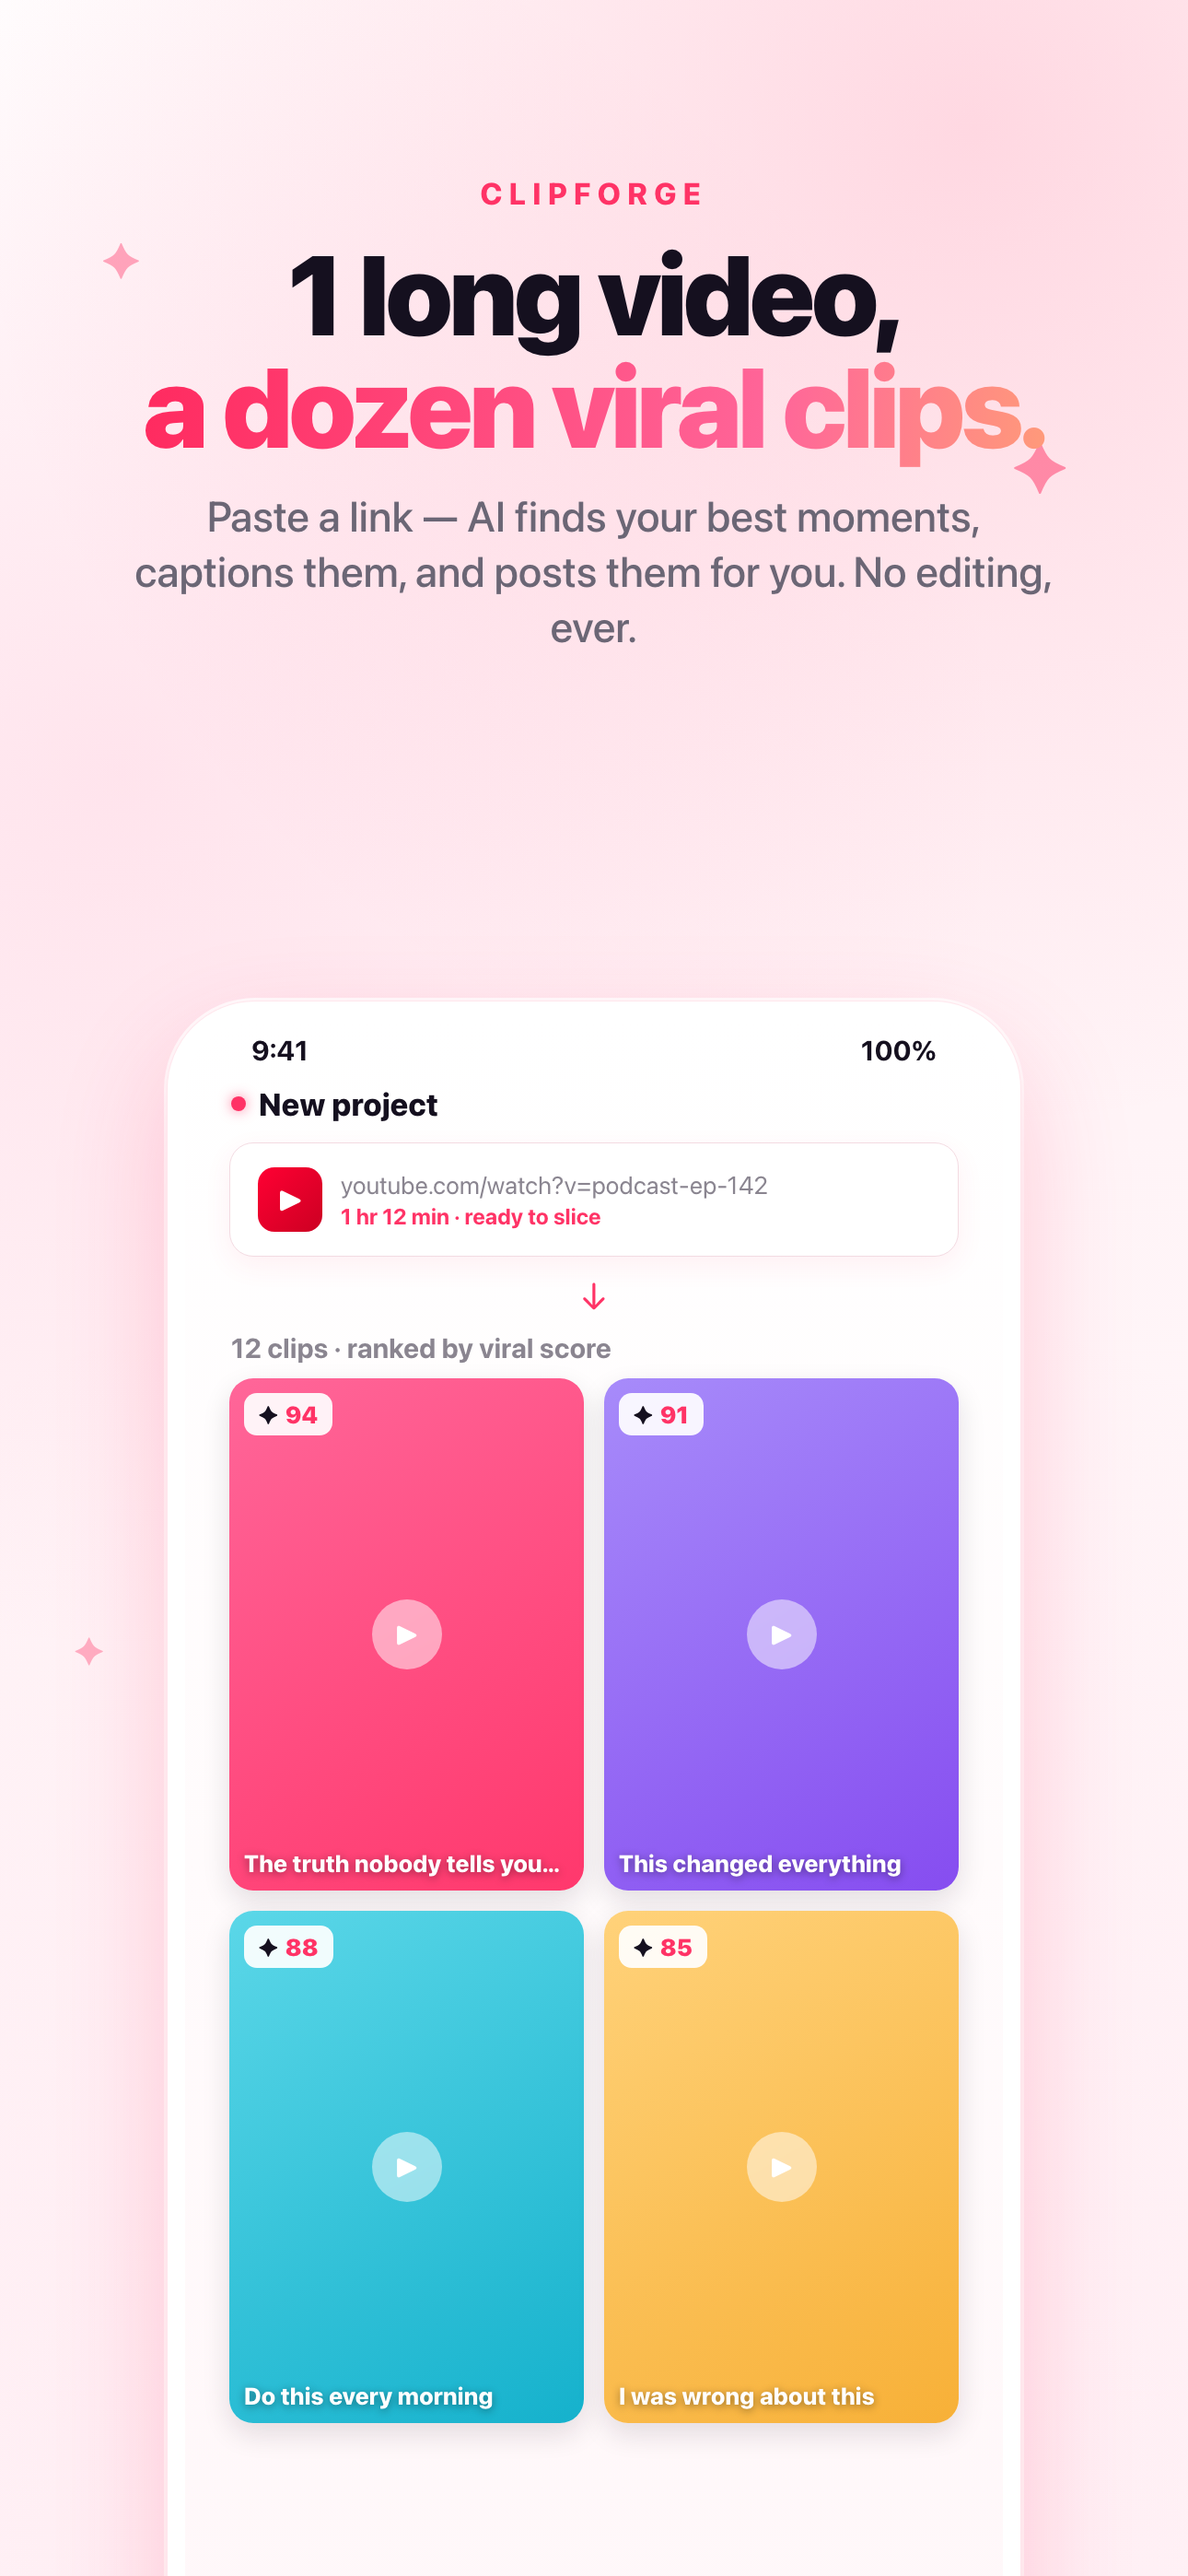
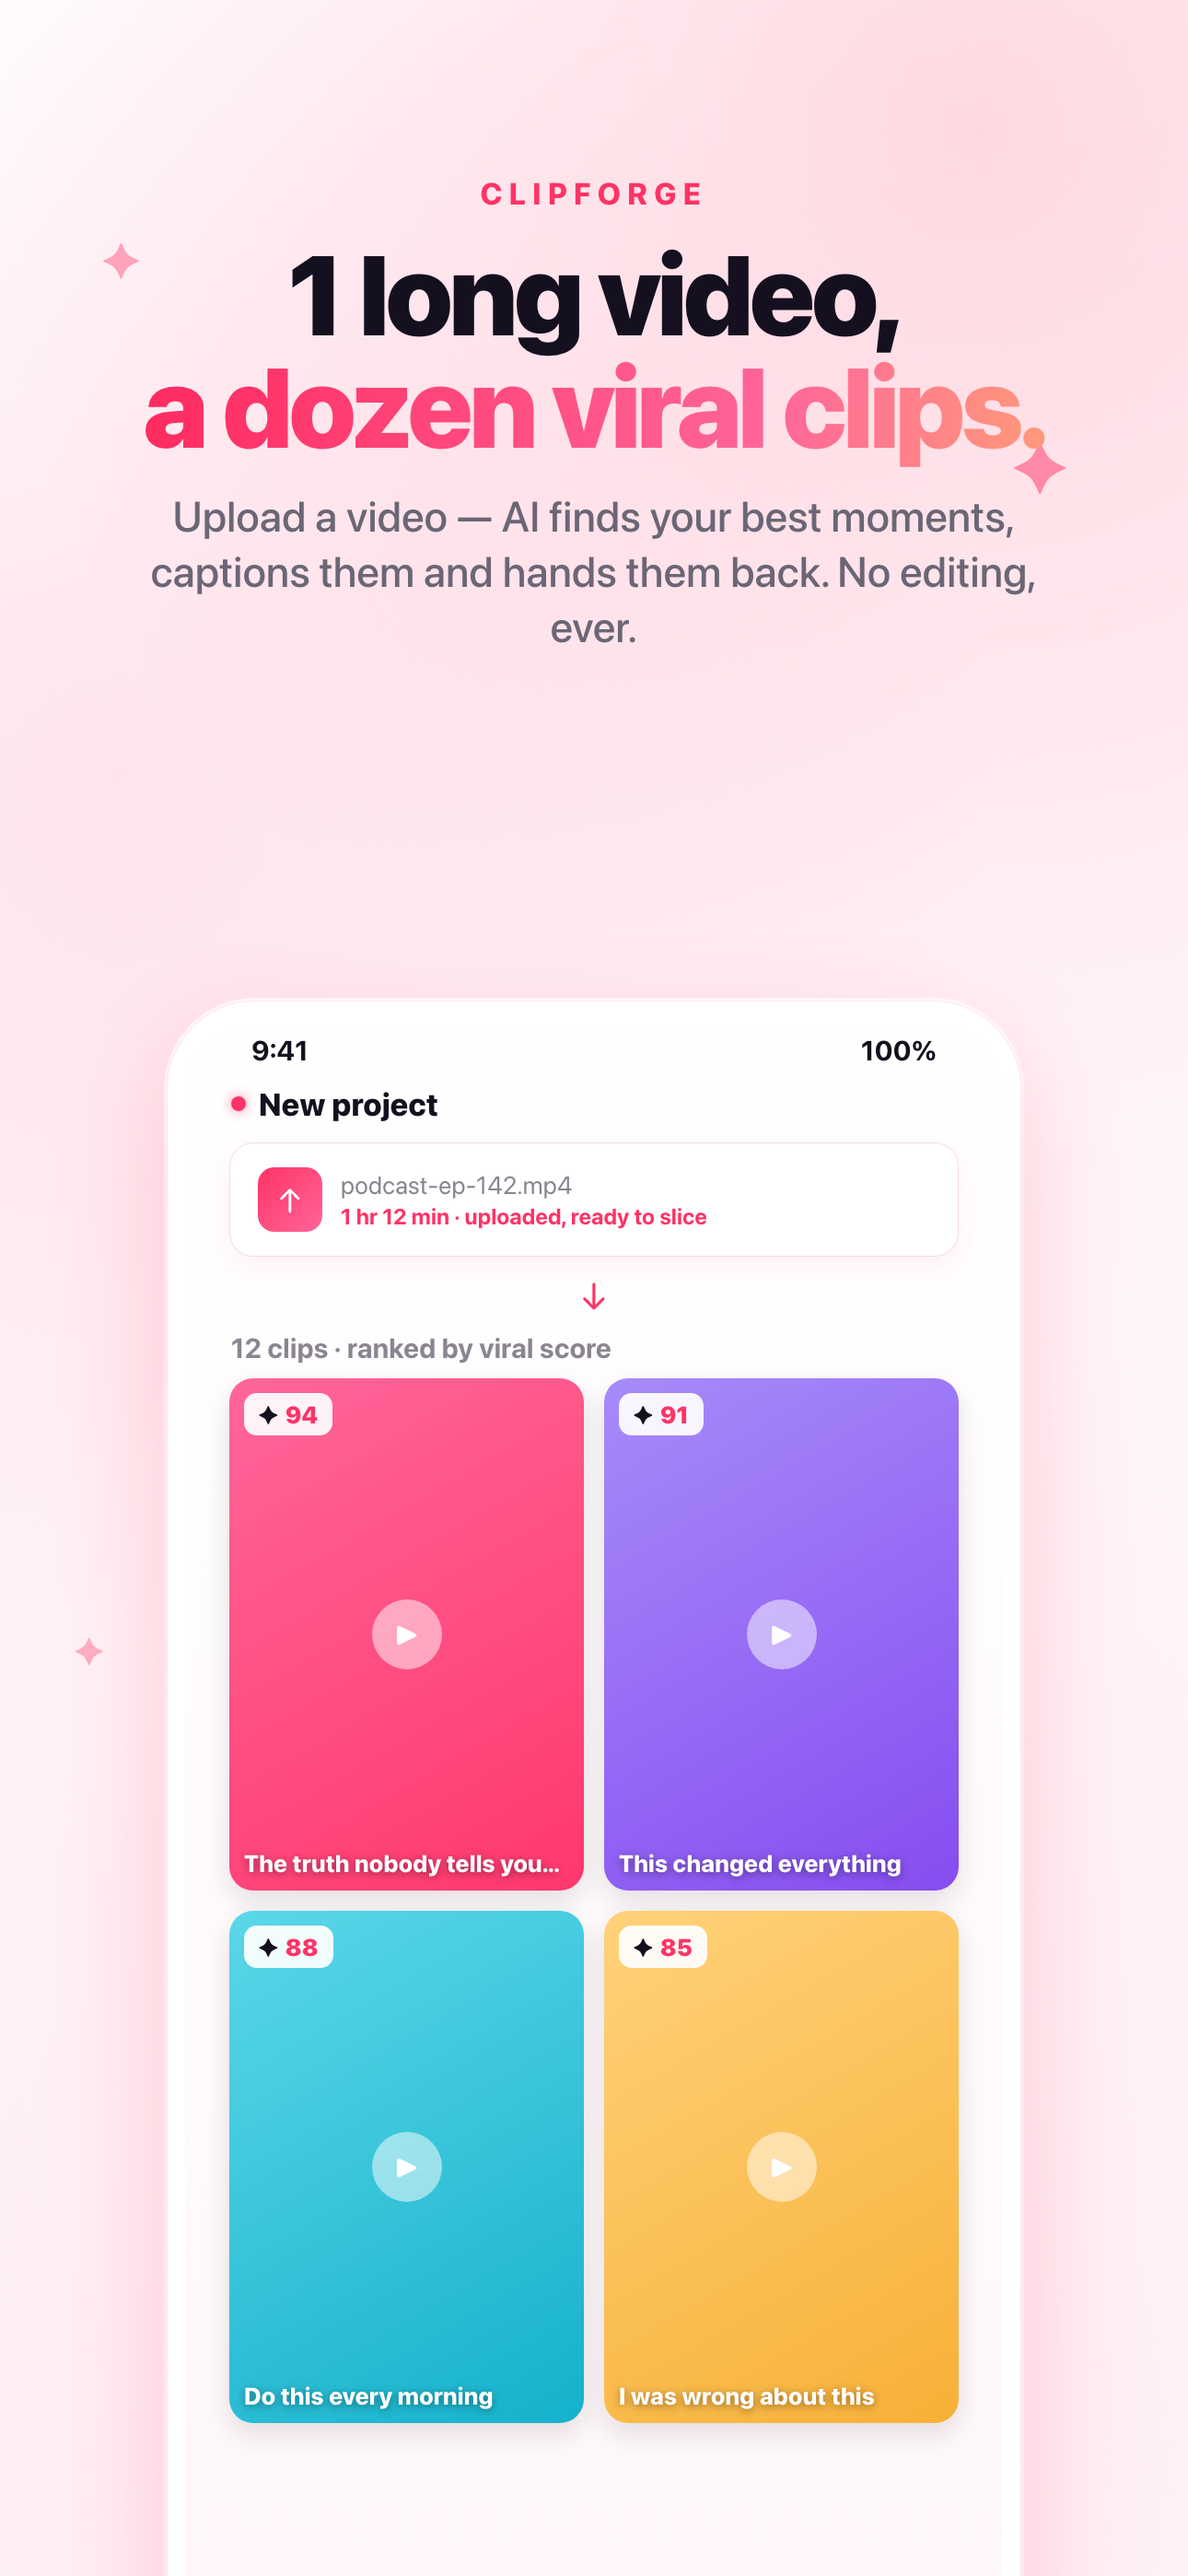
screenshots: two of the five sold things the app cannot do
Screenshot 4 was an entire panel devoted to auto-posting — "ClipForge posts
every clip to TikTok, Reels and Shorts. Hands-off." — with all three networks
ticked and a "Post to all 3" button. Publishing is gated on platform approvals
that have not landed and on OAuth credentials that are not in production. That
claim was stripped from the landing page and the paywall in an earlier pass;
the App Store screenshots, which are the most visible place it lived, were
missed. It now shows what actually happens when a render finishes: save,
share, caption copied.

Screenshot 1 led with a YouTube URL in the input and promised the app "posts
them for you". YouTube refuses downloads from data-centre IPs, so that path
does not work in production — the review notes already steer reviewers to
upload instead. The hero now shows the upload that works, and the posting
claim is gone.

diff --git a/marketing-assets/fable/src/01-extract.html b/marketing-assets/fable/src/01-extract.html
@@ -37,7 +37,7 @@
   .nav .dot { width: 16px; height: 16px; border-radius: 50%; background: #FF3366; box-shadow: 0 0 14px rgba(255,51,102,0.6); }
 
   .source { margin: 0 48px 18px; padding: 26px 30px; border-radius: 26px; background: #FFFFFF; border: 1px solid #F3DBE2; box-shadow: 0 10px 30px rgba(255,51,102,0.07); display: flex; align-items: center; gap: 20px; }
-  .source .yt { width: 70px; height: 70px; border-radius: 18px; background: linear-gradient(135deg,#FF0033,#CC0022); color:#fff; display: flex; align-items: center; justify-content: center; font-size: 36px; flex-shrink: 0; }
+  .source .yt { width: 70px; height: 70px; border-radius: 18px; background: linear-gradient(135deg,#FF3366,#FF6699); color:#fff; display: flex; align-items: center; justify-content: center; font-size: 36px; flex-shrink: 0; }
   .source .meta { flex: 1; min-width: 0; }
   .source .url { font-size: 27px; color: #8A8590; white-space: nowrap; overflow: hidden; text-overflow: ellipsis; }
   .source .len { font-size: 24px; color: #FF3366; margin-top: 4px; font-weight: 700; }
@@ -61,7 +61,7 @@
   <div class="copy">
     <div class="eyebrow">ClipForge</div>
     <h1 class="headline">1 long video,<br/><span class="grad">a dozen viral clips.</span></h1>
-    <p class="sub">Paste a link — AI finds your best moments, captions them, and posts them for you. No editing, ever.</p>
+    <p class="sub">Upload a video — AI finds your best moments, captions them and hands them back. No editing, ever.</p>
   </div>
 
   <div class="phone">
@@ -70,10 +70,10 @@
       <div class="nav"><span class="dot"></span>New project</div>
 
       <div class="source">
-        <div class="yt">▶</div>
+        <div class="yt">↑</div>
         <div class="meta">
-          <div class="url">youtube.com/watch?v=podcast-ep-142</div>
-          <div class="len">1 hr 12 min · ready to slice</div>
+          <div class="url">podcast-ep-142.mp4</div>
+          <div class="len">1 hr 12 min · uploaded, ready to slice</div>
         </div>
       </div>
       <div class="arrow">↓</div>

diff --git a/marketing-assets/fable/src/04-autopost.html b/marketing-assets/fable/src/04-autopost.html
@@ -42,21 +42,21 @@
 <body>
   <span class="sp s1"></span><span class="sp s2"></span>
   <div class="copy">
-    <div class="eyebrow">Auto-posting</div>
-    <h1 class="headline">Posted for you,<br/><span class="grad">everywhere.</span></h1>
-    <p class="sub">ClipForge posts every clip to TikTok, Reels and Shorts — now, or scheduled across the week. Hands-off.</p>
+    <div class="eyebrow">Ready to post</div>
+    <h1 class="headline">Finished clips,<br/><span class="grad">in your hand.</span></h1>
+    <p class="sub">Every clip lands captioned, cropped and watermark-free — save it or share it straight to any app.</p>
   </div>
   <div class="phone"><div class="screen">
     <div class="status"><span>9:41</span><span>100%</span></div>
-    <div class="nav">Publish clip</div>
+    <div class="nav">Your clip</div>
     <div class="preview"><div class="sc">✦ <b>94</b></div><div class="cap">The truth nobody tells you…</div></div>
-    <div class="lbl">Send to</div>
+    <div class="lbl">When it’s done</div>
     <div class="platforms">
-      <div class="pf"><div class="ic ttk">♪</div><div class="nm">TikTok</div><div class="chk">✓</div></div>
-      <div class="pf"><div class="ic ig">◉</div><div class="nm">Instagram Reels</div><div class="chk">✓</div></div>
-      <div class="pf"><div class="ic yt">▶</div><div class="nm">YouTube Shorts</div><div class="chk">✓</div></div>
+      <div class="pf"><div class="ic ttk">↓</div><div class="nm">Save to Photos</div><div class="chk">✓</div></div>
+      <div class="pf"><div class="ic ig">↗</div><div class="nm">Share sheet — any app</div><div class="chk">✓</div></div>
+      <div class="pf"><div class="ic yt">✎</div><div class="nm">Caption &amp; hashtags copied</div><div class="chk">✓</div></div>
     </div>
-    <div class="cta">Post to all 3 →</div>
+    <div class="cta">Save clip →</div>
   </div></div>
 </body>
 </html>
